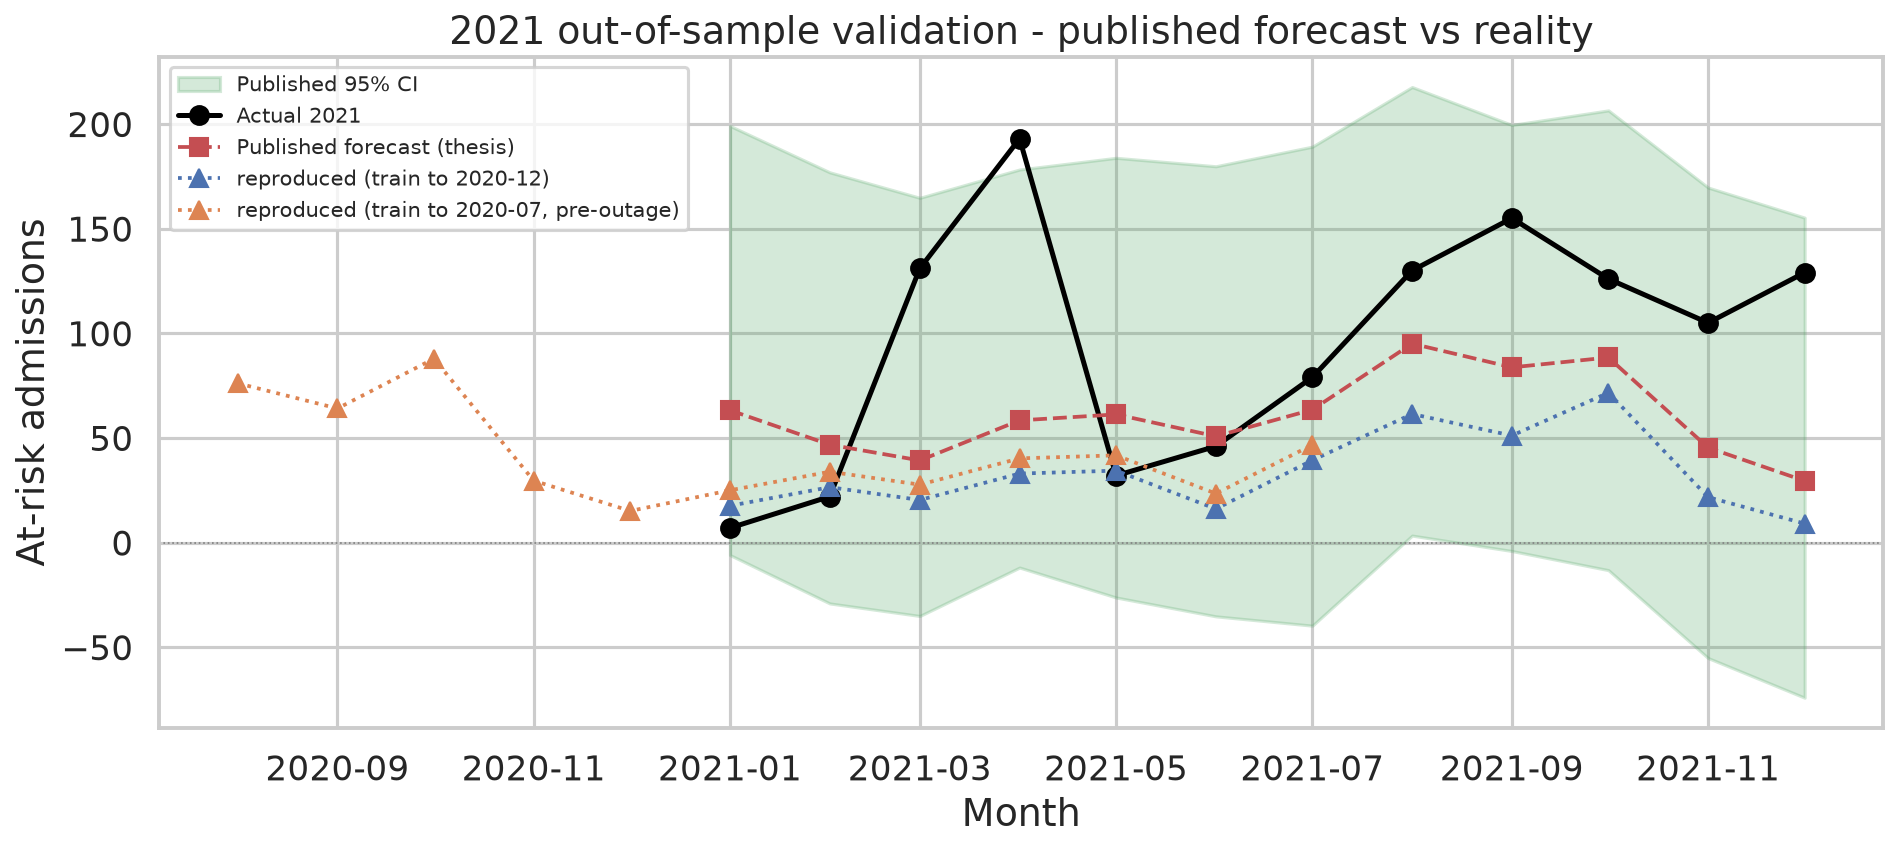
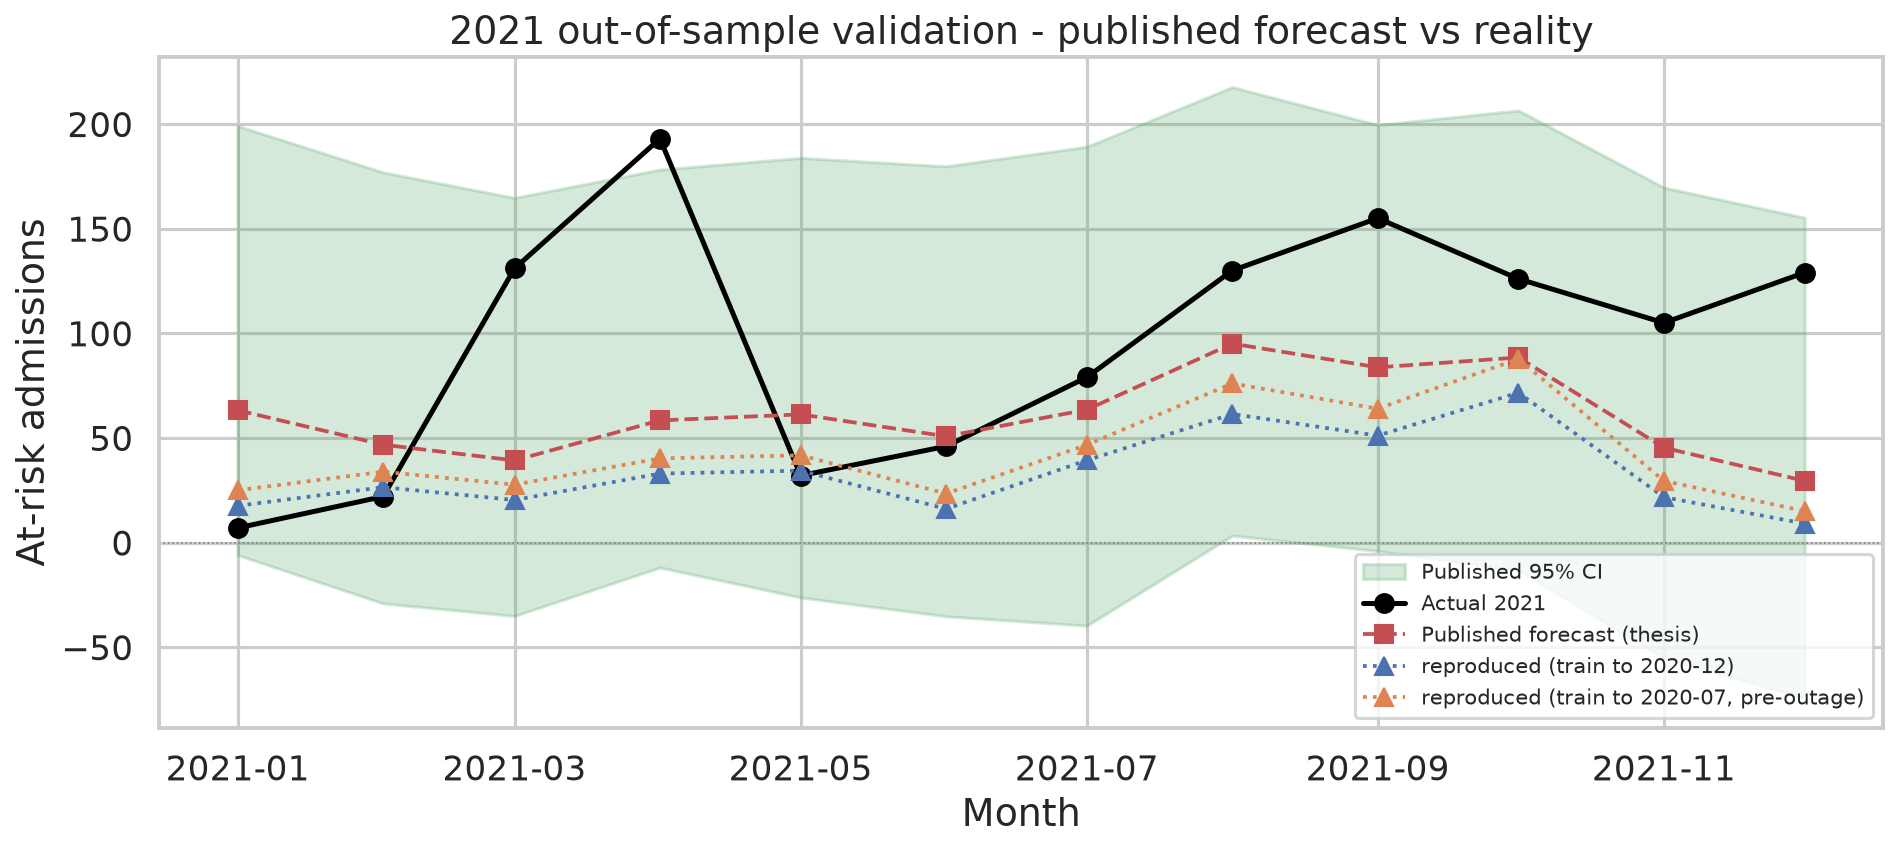
fix(validation): align the pre-outage forecast to the target window
The pre-outage experiment forecast a fixed 12 steps from a July 2020 origin,
which covers Aug 2020 - Jul 2021, and then scored those values against
Jan - Dec 2021. Wrong twelve months, believable-looking MAE of 72.17.

- add models.forecast_cover(): derives the horizon from the target index and
  raises instead of returning a misaligned series
- re-run: the corrected MAE is 60.27, so the reporting-outage imputation does
  cost accuracy (60.27 -> 65.65 when the imputed months are included) rather
  than the opposite
- pin the bug with test_forecast_cover_aligns_a_short_forecast_to_the_target_window
- correct the README's account, including how the number was first misreported

26 tests pass.

diff --git a/tests/test_models.py b/tests/test_models.py
@@ -3,8 +3,8 @@ import pandas as pd
 import pytest
 
 from src.data import load_series, train_test_split
-from src.models import (DEFAULT_MODELS, ForecastResult, naive, seasonal_naive,
-                        triple_exp_smoothing)
+from src.models import (DEFAULT_MODELS, ForecastResult, forecast_cover, naive,
+                        seasonal_naive, triple_exp_smoothing)
 
 
 @pytest.fixture(scope="module")
@@ -42,3 +42,31 @@ def test_every_registered_model_returns_the_right_horizon(split):
         forecast = factory(train, len(test)).forecast
         assert len(forecast) == len(test), f"{name} returned {len(forecast)} points"
         assert np.isfinite(forecast.to_numpy()).all(), f"{name} produced non-finite values"
+
+
+def test_forecast_cover_aligns_a_short_forecast_to_the_target_window(split):
+    """Regression: a 12-step forecast from a 2020-07 origin is NOT calendar 2021.
+
+    It covers Aug 2020 - Jul 2021. Scoring it against Jan - Dec 2021 compares
+    the wrong months and still returns a believable error number. This test
+    pins the guard that catches it.
+    """
+    series = load_series()
+    train = series.loc[:"2020-07"]
+    target = series.loc["2021-01-01":"2021-12-01"].index
+
+    naive_12 = naive(train, 12).forecast
+    assert naive_12.index[0].month == 8, "the short forecast starts in August"
+    assert naive_12.index[0].year == 2020
+    assert not naive_12.index.equals(target)
+
+    aligned = forecast_cover(naive, train, target)
+    assert list(aligned.index) == list(target)
+    assert aligned.notna().all()
+    assert len(aligned) == 12
+
+
+def test_forecast_cover_refuses_a_target_it_cannot_reach(split):
+    train, _ = split
+    with pytest.raises(ValueError, match="empty"):
+        forecast_cover(naive, train, pd.DatetimeIndex([]))

diff --git a/src/models.py b/src/models.py
@@ -154,6 +154,36 @@ def _future_index(train: pd.Series, horizon: int) -> pd.DatetimeIndex:
     return pd.date_range(train.index[-1], periods=horizon + 1, freq="MS")[1:]
 
 
+def forecast_cover(build, train: pd.Series, target_index) -> pd.Series:
+    """Forecast from `train` and return values aligned to `target_index`.
+
+    Guards against a mistake that is easy to make and hard to see: forecasting
+    a fixed number of steps and then scoring it against a window that does not
+    start where the forecast starts. If `train` ends in July 2020 and the
+    target is calendar 2021, a 12-step forecast covers Aug 2020 - Jul 2021, and
+    comparing those twelve numbers to Jan - Dec 2021 compares the wrong months
+    while still producing a plausible-looking error figure.
+
+    Raises rather than returning a partial or misaligned series.
+    """
+    target_index = pd.DatetimeIndex(target_index)
+    if len(target_index) == 0:
+        raise ValueError("forecast_cover: target_index is empty")
+    first_step = train.index[-1] + pd.offsets.MonthBegin(1)
+    required = len(pd.date_range(first_step, target_index[-1], freq="MS"))
+    if required <= 0:
+        raise ValueError(
+            f"forecast_cover: target ends {target_index[-1].date()} which is before "
+            f"the first forecast step {first_step.date()}"
+        )
+    forecast = build(train, required).forecast
+    aligned = forecast.reindex(target_index)
+    if aligned.isna().any():
+        missing = [str(p.date())[:7] for p in aligned[aligned.isna()].index]
+        raise ValueError(f"forecast_cover: no value for {missing}")
+    return aligned
+
+
 def _series(train: pd.Series, horizon: int, values) -> pd.Series:
     return pd.Series(values, index=_future_index(train, horizon), name=train.name)
 

diff --git a/scripts/run_2021_validation.py b/scripts/run_2021_validation.py
@@ -17,7 +17,7 @@ import pandas as pd
 from src import metrics as M
 from src import plots
 from src.data import load_series
-from src.models import triple_exp_smoothing
+from src.models import forecast_cover, triple_exp_smoothing
 
 RESULTS = pathlib.Path(__file__).resolve().parent.parent / "results"
 RESULTS.mkdir(parents=True, exist_ok=True)
@@ -43,14 +43,19 @@ def main() -> int:
     # Independent re-fit: train on everything up to the end of 2020 and
     # forecast 2021 - the same information the thesis had.
     train = series.loc[:"2020-12"]
-    reproduced = triple_exp_smoothing(train, 12).forecast
+    reproduced = forecast_cover(triple_exp_smoothing, train, actual.index)
 
     # Third experiment: train only up to the last month *before* the
     # Aug-Dec 2020 reporting outage. Isolates how much the forward-fill of
     # those five months dragged the level (and therefore the 2021 forecast)
     # downwards.
+    #
+    # NOTE: forecasting a fixed 12 steps from a 2020-07 origin lands on
+    # Aug 2020 - Jul 2021, which is NOT calendar 2021. `forecast_cover`
+    # extends the horizon as far as the target window needs so the
+    # comparison is month-for-month correct.
     train_preoutage = series.loc[:"2020-07"]
-    reproduced_preoutage = triple_exp_smoothing(train_preoutage, 12).forecast
+    reproduced_preoutage = forecast_cover(triple_exp_smoothing, train_preoutage, actual.index)
 
     variants = {
         "reproduced (train to 2020-12)": reproduced,

diff --git a/README.md b/README.md
@@ -83,18 +83,36 @@ zero.
 | Source | MAE | RMSE | sMAPE % | 95% CI coverage |
 |---|---:|---:|---:|---:|
 | Published (thesis Table 4.3) | 54.99 | 66.21 | 72.68 | 11 / 12 |
+| Reproduced, trained to Jul 2020 | 60.27 | 74.99 | 83.40 | — |
 | Reproduced, trained to Dec 2020 | 65.65 | 81.77 | 91.31 | — |
-| Reproduced, trained to Jul 2020 | 72.17 | 82.69 | 102.49 | — |
 
-**An honest limitation.** The published point forecasts are better than any
-reproduction this repository can produce from the surviving data, and I could
-not close the gap. I tested the obvious explanation — that forward-filling the
-Aug–Dec 2020 reporting outage dragged the level down — and it is wrong: training
-only on pre-outage months makes the result *worse*, not better. Six alternative
-seasonal specifications were tried and none reproduce the published forecast's
-flat, higher trajectory. The published parameters, or a preprocessing step not
-recorded in the surviving files, are the likely cause. It is listed as an open
-item rather than explained away.
+**An honest limitation, and a correction.** The published point forecasts remain
+better than anything this repository reproduces from the surviving data, and the
+gap is not fully closed.
+
+The obvious explanation is that forward-filling the Aug–Dec 2020 reporting
+outage with a flat 26 depresses the level, and that this is what hurts the 2021
+forecast. **That explanation is partly right, and it is measurable here:** the
+five imputed months cost 5.4 MAE points (60.27 → 65.65) and pull the mean
+forecast down from 42.6 to 33.5 admissions, against an actual 2021 mean of
+104.6. An imputation artefact of that size is worth knowing about.
+
+It does not explain the whole gap. The remaining ~5 MAE points between 60.27 and
+the published 54.99 are unaccounted for. Six alternative seasonal specifications
+were tried and none reproduce the published forecast's flatter, higher
+trajectory (mean ~55). The published smoothing parameters, or a preprocessing
+step not preserved in the surviving files, are the likely cause. It is listed as
+an open item rather than explained away.
+
+> **A note on how this number was first reported.** The pre-outage experiment
+> was initially run with a fixed 12-step horizon from a July 2020 origin, which
+> forecasts Aug 2020 – Jul 2021 and then scored it against Jan – Dec 2021: the
+> wrong twelve months, producing a plausible-looking 72.17. The horizon is now
+> derived from the target window by `models.forecast_cover()`, which raises
+> rather than returning a misaligned series, and
+> `tests/test_models.py::test_forecast_cover_aligns_a_short_forecast_to_the_target_window`
+> pins the bug. The corrected value is 60.27 and the conclusion inverts: the
+> imputation hypothesis holds, partially.
 
 All figures above come from `results/` and can be regenerated with `make all`.
 
